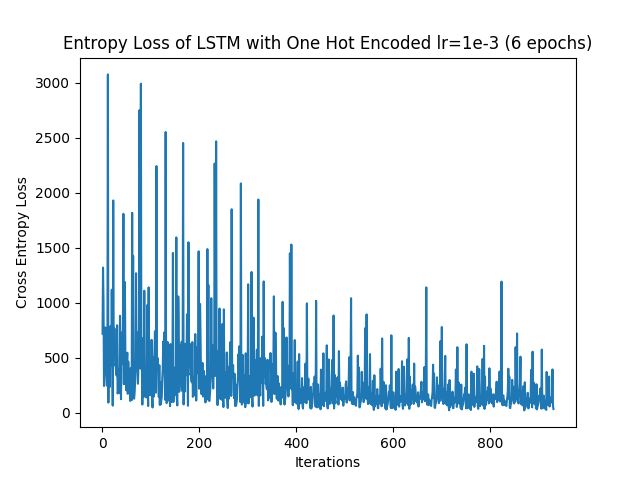
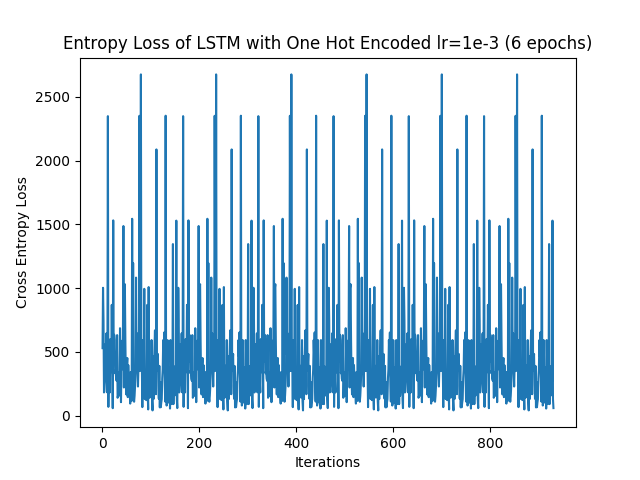
fixed seq model

diff --git a/seq-prediction.py b/seq-prediction.py
@@ -47,11 +47,12 @@ class Model(nn.Module):
 		self.hidden = self.init_hidden()
 
 	def init_hidden(self):
-		return (autograd.Variable(torch.randn(1, 1, 2)),
-			autograd.Variable(torch.randn((1, 1, 2))))
+		return (autograd.Variable(torch.zeros(1, 1, 2)),
+			autograd.Variable(torch.zeros((1, 1, 2))))
 
 	def forward(self,i):
 		out, self.hidden = self.lstm(i.view(1, 1, -1), self.hidden)
+		out = F.softmax(out)
 		return out
 
 def encode_input(x):
@@ -64,7 +65,7 @@ def encode_output(y):
 		return [0.0,1.0]
 
 model = Model()
-'''
+
 loss_function = nn.CrossEntropyLoss()
 optimizer = optim.Adam(model.parameters(), lr=1e-3)
 
@@ -106,9 +107,9 @@ plt.savefig('result_seq_lr=1e-3_6epochs.png')
 
 print 'Done 1'
 torch.save(model.state_dict(), "seq.model")
+
+
 '''
-
-
 # Testing
 
 model.load_state_dict(torch.load('seq.model'))
@@ -141,3 +142,4 @@ for sequence in xrange(len(test)):
 	specificity = TN/float(FP + TN)
 	print (TP,FP,TN,FN)
 	#average_list.append(accuracy/float(len(output)))
+'''

diff --git a/seq-linear-prediction2-aap.py b/seq-linear-prediction2-aap.py
@@ -75,7 +75,7 @@ def encode_output(y):
 		return [0.0,1.0]
 
 model = Model()
-
+'''
 loss_function = nn.CrossEntropyLoss()
 optimizer = optim.Adam(model.parameters(), lr=1e-3)
 
@@ -120,10 +120,10 @@ plt.title('Entropy Loss of Linear and LSTM (2 Layer) with AA Vectorization lr=1e
 plt.show()
 plt.savefig('result_seq_linear_2_aap_lr=1e-3.png')
 
-
+'''
 
 # Testing
-'''
+
 model.load_state_dict(torch.load('seq-linear-2-aap.model'))
 
 for sequence in xrange(len(test)):
@@ -154,4 +154,4 @@ for sequence in xrange(len(test)):
         sensitivity = TP/float(TP + FN)
         specificity = TN/float(FP + TN)
         print (TP,FP,TN,FN)
-'''
+
